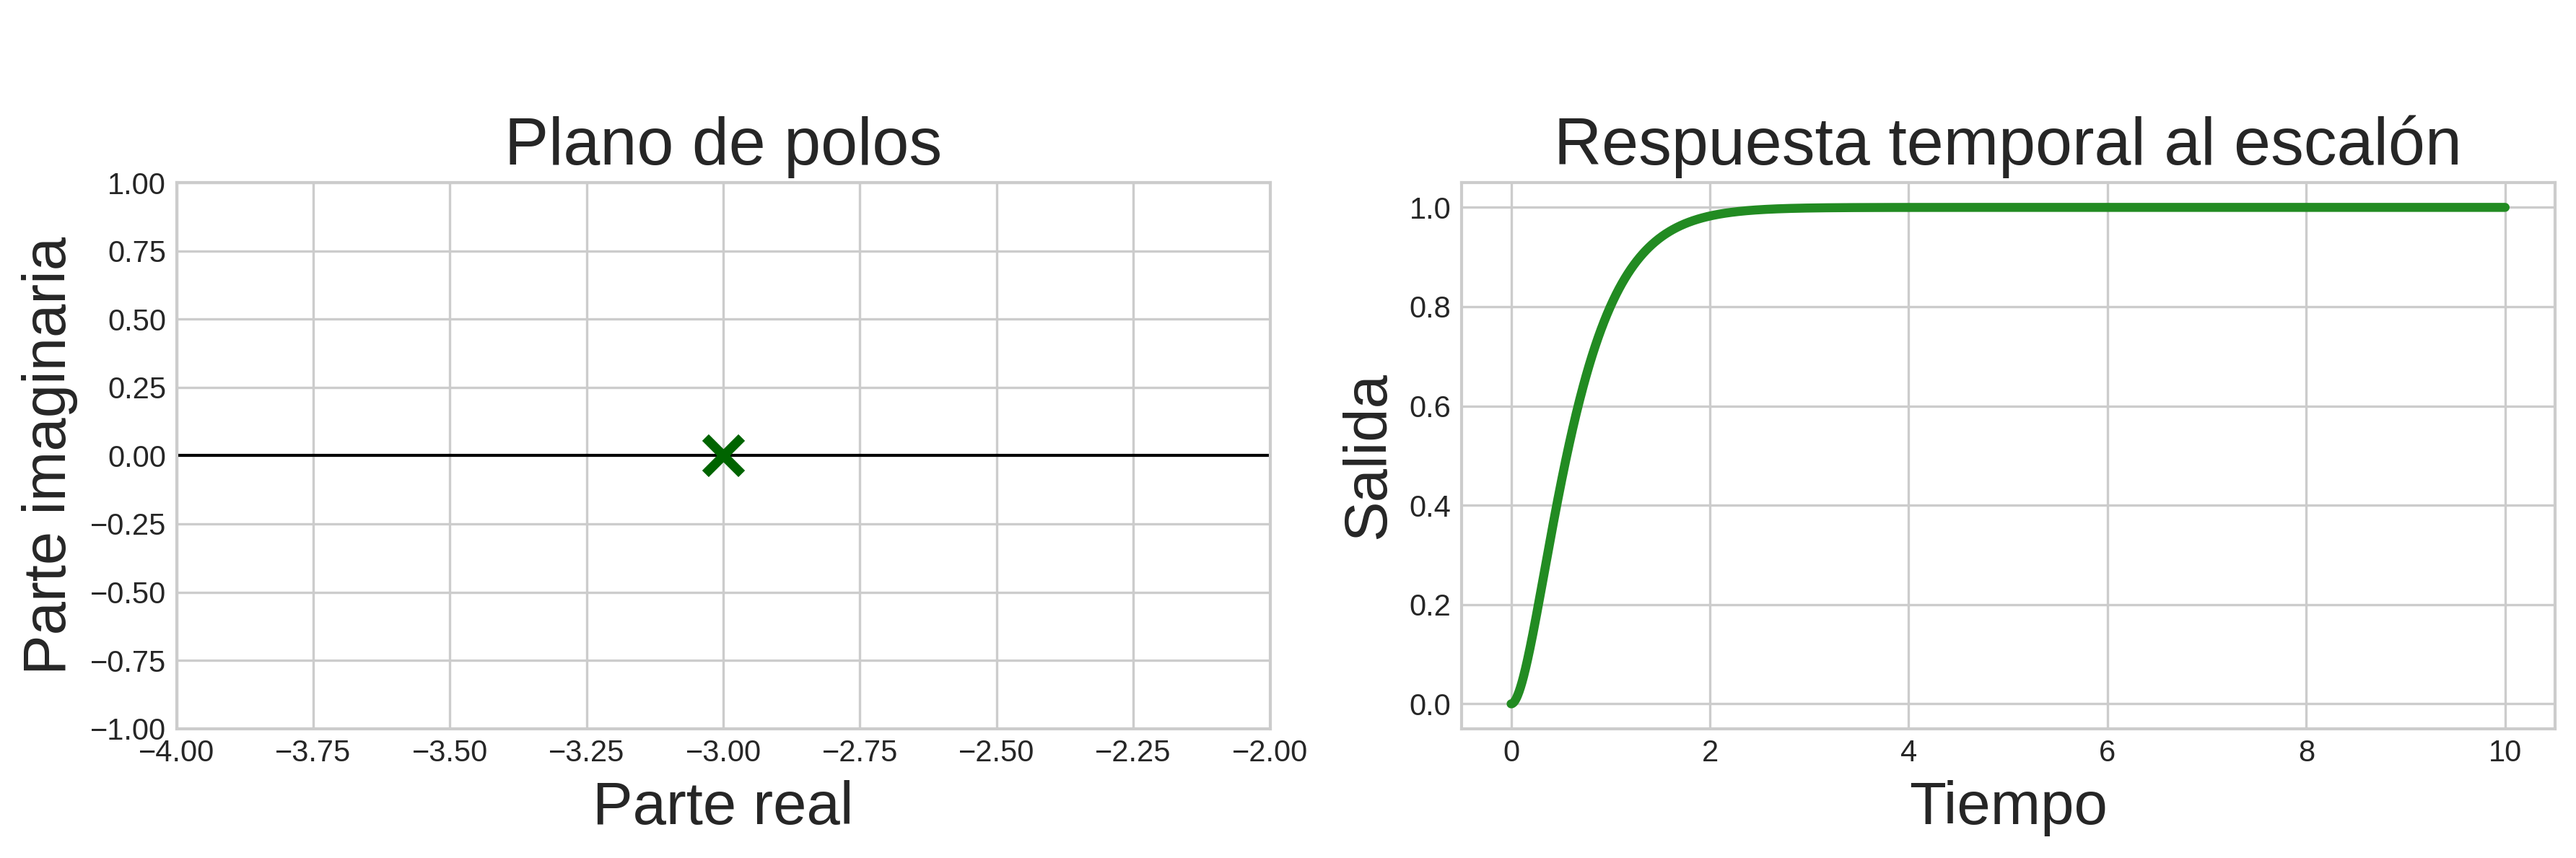
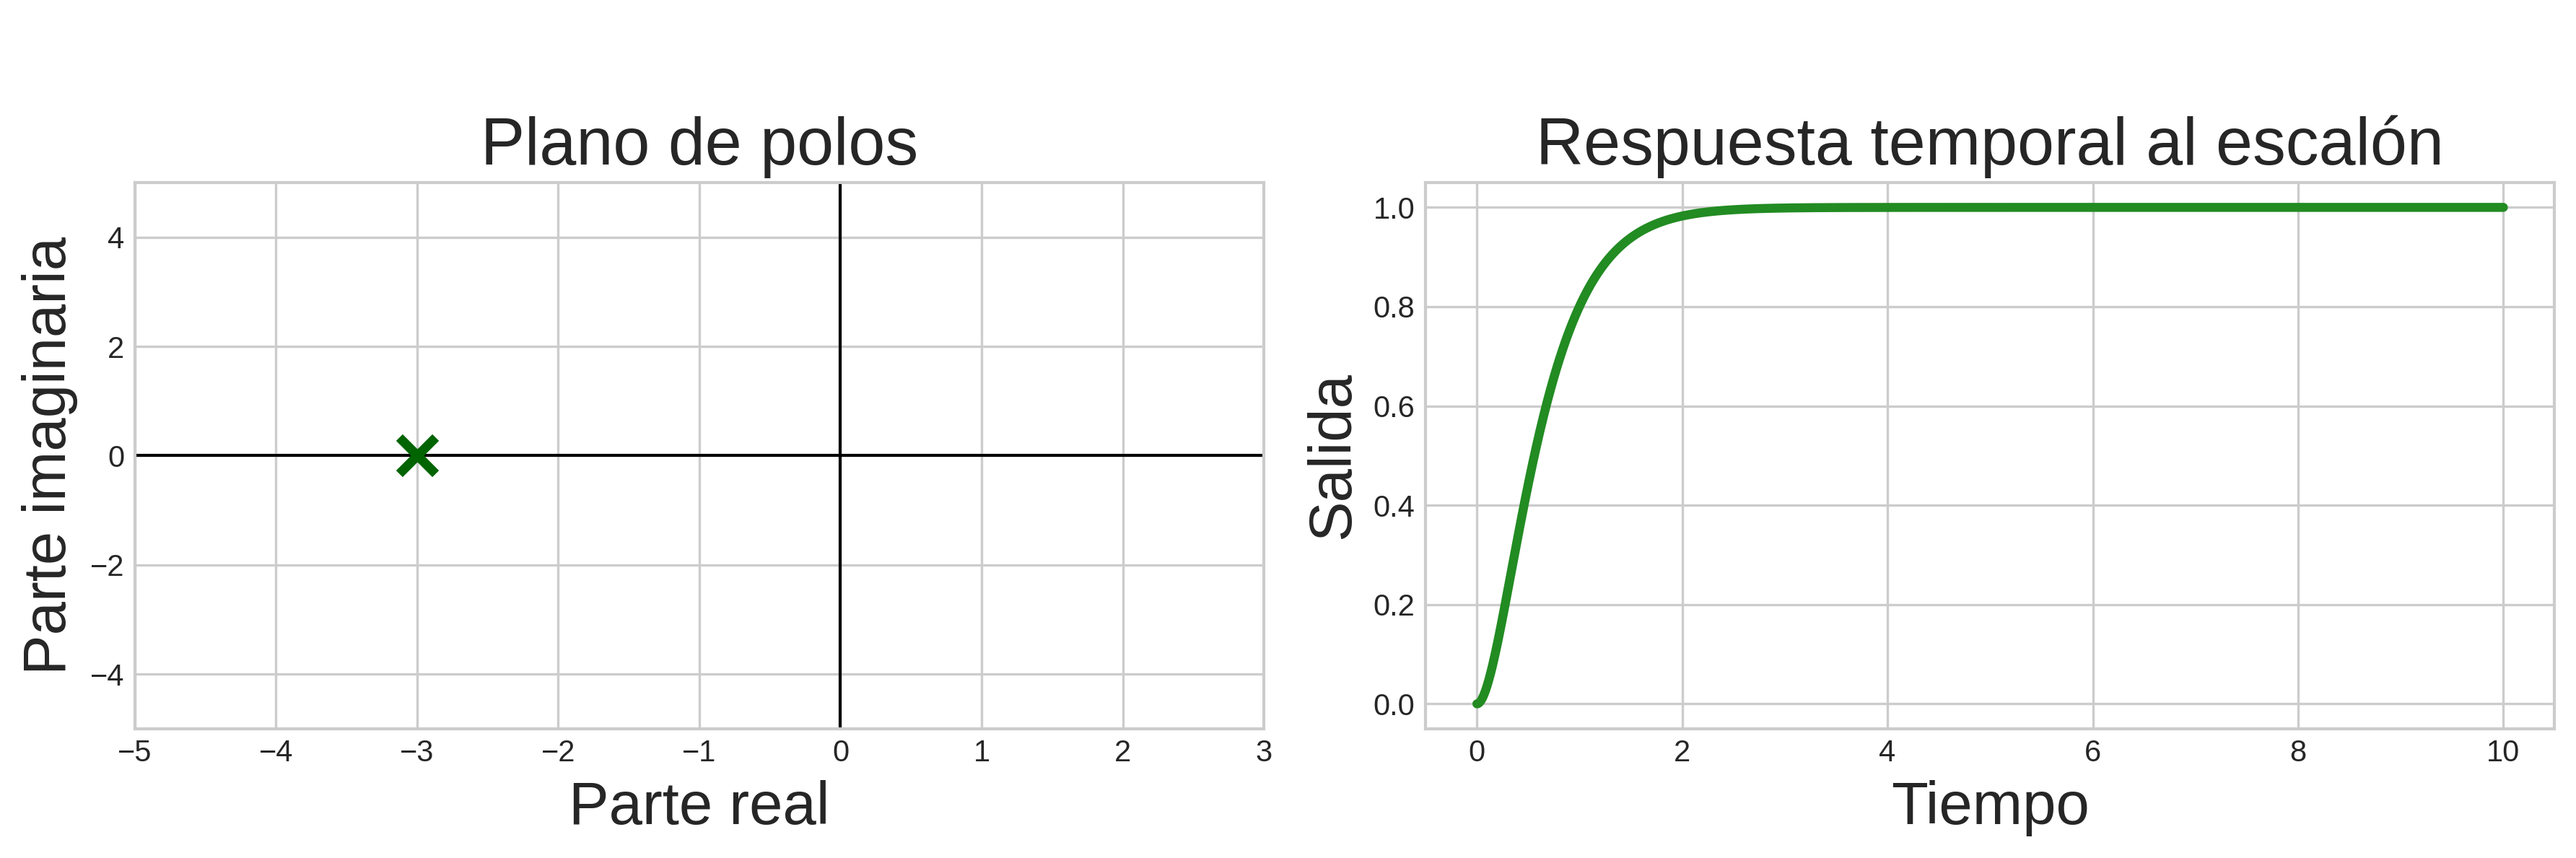
ceros y polos redondeando

diff --git a/reportes/cap5_015_polos_y_ceros.md b/reportes/cap5_015_polos_y_ceros.md
@@ -133,8 +133,8 @@ Respuesta creciente \\
 \caption{Inestable}
 \end{figure}
 
+***Nota:*** Un controlador, al introducir nuevos polos y ceros, no sólo *corrige error*. También:
 
-
-
-
-
+* altera el orden del sistema,
+* modifica la ubicación de los polos,
+* cambia la dinámica y la respuesta temporal.
